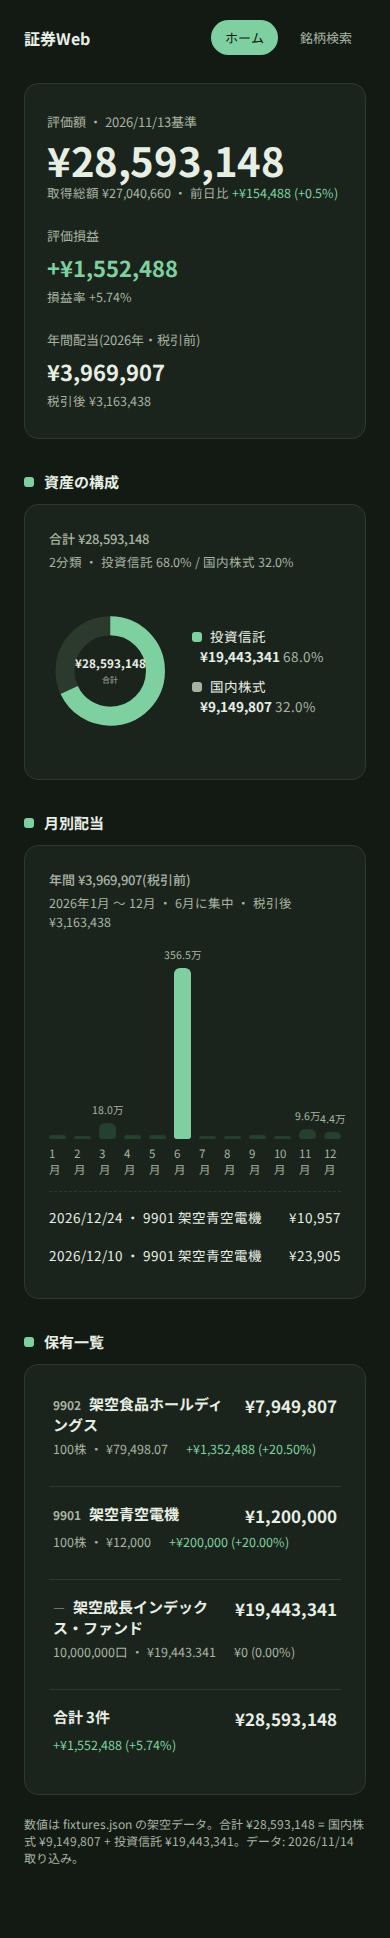
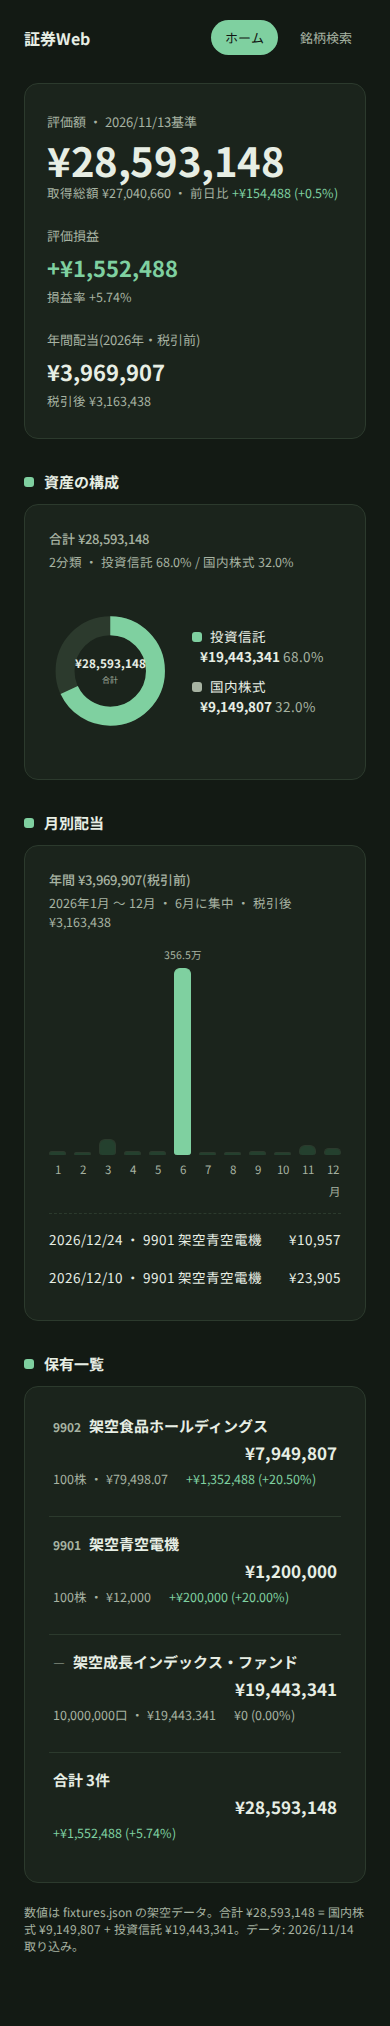
design: シンプル1案に絞って作り直し(ホーム案4)
Refs #1890

diff --git a/docs/design/work/phase8-visual/idea4-simple.html b/docs/design/work/phase8-visual/idea4-simple.html
@@ -1,0 +1,147 @@
+<!doctype html>
+<!-- 現行ホーム(before/current-home-*.png)からの変更3点:
+  1. 紺の3分割集計帯・予想vs実績グラフ・口座別バーをなくし、縦1列(最大720px)で読む形にした
+  2. 明細をすべて「左=名前(省略)・右=金額」の同じ行に統一し、金額の右端を一本線にそろえた
+  3. 色を黒・灰+利益緑・損失赤・グラフ1色(緑の濃淡)だけにし、見出しや帯の色をやめた -->
+<html lang="ja" data-theme="light">
+<head>
+<meta charset="utf-8">
+<meta name="viewport" content="width=device-width,initial-scale=1">
+<title>ホーム 案4 シンプル | 証券Web</title>
+<link rel="preconnect" href="https://fonts.googleapis.com">
+<link rel="preconnect" href="https://fonts.gstatic.com" crossorigin>
+<link href="https://fonts.googleapis.com/css2?family=Noto+Sans+JP:wght@400;700&display=swap" rel="stylesheet">
+<style>
+/* 規則1: 縦1列・最大720px中央。左右併記は「名前と金額」の行の中だけ */
+:root{
+  --bg:#ffffff; --ink:#111111; --mut:#6e7378; --line:#e2e2e2;
+  --up:#0f6b3c; --down:#b3261e;
+  --g-deep:#1f6b44; --g-pale:#bcd8c4; /* 規則5: グラフは同色相の濃淡 */
+}
+html[data-theme="dark"]{
+  --bg:#101112; --ink:#f2f2f2; --mut:#a3a7ab; --line:#2b2d2f;
+  --up:#5fce8f; --down:#f08780;
+  --g-deep:#7fd0a0; --g-pale:#2c4433;
+}
+@media (prefers-color-scheme: dark){
+  html:not([data-theme]){ --bg:#101112; --ink:#f2f2f2; --mut:#a3a7ab; --line:#2b2d2f; --up:#5fce8f; --down:#f08780; --g-deep:#7fd0a0; --g-pale:#2c4433; }
+}
+*{box-sizing:border-box}
+body{
+  margin:0; background:var(--bg); color:var(--ink);
+  font-family:"Noto Sans JP","Hiragino Kaku Gothic ProN",Meiryo,sans-serif;
+  font-weight:400;
+}
+.wrap{max-width:720px; margin:0 auto; padding:0 20px 80px}
+.top{display:flex; justify-content:space-between; align-items:center; padding:20px 0; font-size:14px}
+.top .brand{font-weight:700}
+.top .nav{color:var(--mut); white-space:nowrap}
+/* 主役の評価額: 数字3段の1段目 */
+.hero{padding:44px 0 8px}
+.hero .kicker{font-size:13px; color:var(--mut); margin:0 0 8px; white-space:nowrap}
+.hero .total{font-size:clamp(36px,10vw,52px); font-weight:700; text-align:right; margin:0; white-space:nowrap;
+  font-feature-settings:"tnum" 1; font-variant-numeric:tabular-nums}
+/* 規則2: 見出し→要約→明細。区切りは余白+細線のみ */
+section{padding:36px 0 8px; border-top:1px solid var(--line); margin-top:36px}
+section h2{font-size:13px; font-weight:700; margin:0; white-space:nowrap}
+.sum{display:flex; justify-content:space-between; align-items:baseline; gap:16px; margin:10px 0 0}
+.sum .label{font-size:13px; color:var(--mut); white-space:nowrap}
+.sum .amt{font-size:22px; font-weight:700; white-space:nowrap;
+  font-feature-settings:"tnum" 1; font-variant-numeric:tabular-nums}
+/* 規則3: 明細は同じ「行」の型。名前は省略、金額は右そろえ、補足は2段目 */
+.rows{margin-top:8px}
+.row{display:flex; justify-content:space-between; align-items:flex-start; gap:16px; padding:12px 0; border-top:1px solid var(--line)}
+.row .left{min-width:0; flex:1 1 auto}
+.row .name{font-size:15px; white-space:nowrap; overflow:hidden; text-overflow:ellipsis}
+.row .sub{display:block; font-size:12.5px; color:var(--mut); margin-top:2px; white-space:nowrap; overflow:hidden; text-overflow:ellipsis}
+.row .amt{flex:none; font-size:15px; font-weight:700; text-align:right; white-space:nowrap;
+  font-feature-settings:"tnum" 1; font-variant-numeric:tabular-nums}
+.up{color:var(--up)} .down{color:var(--down)}
+/* 規則6: 構成は1本の横棒(濃淡)、月別は小さな棒1つ・数字ラベル・値は最大月だけ */
+.bar100{display:flex; height:10px; margin:20px 0 4px}
+.bar100 .a{background:var(--g-deep); width:68.0%}
+.bar100 .b{background:var(--g-pale); width:32.0%}
+.bars{display:flex; align-items:flex-end; gap:6px; height:120px; margin-top:20px}
+.bars .c{flex:1; display:flex; flex-direction:column; align-items:center; justify-content:flex-end; gap:4px; min-width:0; height:100%}
+.bars .b{width:100%; max-width:26px; background:var(--g-deep); min-height:2px}
+.bars .t{font-size:10.5px; color:var(--mut); white-space:nowrap; font-feature-settings:"tnum" 1; font-variant-numeric:tabular-nums}
+.bars .m{font-size:11px; color:var(--mut)}
+.m-axis{text-align:right; font-size:11px; color:var(--mut); margin-top:4px}
+.foot{margin-top:36px; padding-top:16px; border-top:1px solid var(--line); color:var(--mut); font-size:12px}
+</style>
+</head>
+<body>
+<div class="wrap">
+  <header class="top"><span class="brand">証券Web</span><span class="nav">ホーム</span></header>
+
+  <div class="hero">
+    <p class="kicker">評価額 ・ 価格基準日 2026/11/13</p>
+    <p class="total">¥28,593,148</p>
+    <div class="rows">
+      <div class="row"><div class="left"><div class="name">評価損益</div><span class="sub">+5.74% ・ 取得総額 ¥27,040,660</span></div><span class="amt up">+¥1,552,488</span></div>
+      <div class="row"><div class="left"><div class="name">前日比</div><span class="sub">+0.5% ・ 前日 ¥28,438,660</span></div><span class="amt up">+¥154,488</span></div>
+      <div class="row"><div class="left"><div class="name">年間配当(2026年・税引前)</div><span class="sub">税引後 ¥3,163,438</span></div><span class="amt">¥3,969,907</span></div>
+    </div>
+  </div>
+
+  <section>
+    <h2>資産の構成</h2>
+    <div class="sum"><span class="label">合計</span><span class="amt">¥28,593,148</span></div>
+    <div class="bar100"><span class="a"></span><span class="b"></span></div>
+    <div class="rows">
+      <div class="row"><div class="left"><div class="name">投資信託</div><span class="sub">68.0% ・ 1件</span></div><span class="amt">¥19,443,341</span></div>
+      <div class="row"><div class="left"><div class="name">国内株式</div><span class="sub">32.0% ・ 2件</span></div><span class="amt">¥9,149,807</span></div>
+    </div>
+  </section>
+
+  <section>
+    <h2>月別配当</h2>
+    <div class="sum"><span class="label">年間合計(税引前)</span><span class="amt">¥3,969,907</span></div>
+    <div class="bars">
+      <div class="c"><span class="t"></span><span class="b" style="height:2px"></span><span class="m">1</span></div>
+      <div class="c"><span class="t"></span><span class="b" style="height:2px"></span><span class="m">2</span></div>
+      <div class="c"><span class="t"></span><span class="b" style="height:6px"></span><span class="m">3</span></div>
+      <div class="c"><span class="t"></span><span class="b" style="height:2px"></span><span class="m">4</span></div>
+      <div class="c"><span class="t"></span><span class="b" style="height:2px"></span><span class="m">5</span></div>
+      <div class="c"><span class="t">356.5万</span><span class="b" style="height:100px"></span><span class="m">6</span></div>
+      <div class="c"><span class="t"></span><span class="b" style="height:2px"></span><span class="m">7</span></div>
+      <div class="c"><span class="t"></span><span class="b" style="height:2px"></span><span class="m">8</span></div>
+      <div class="c"><span class="t"></span><span class="b" style="height:2px"></span><span class="m">9</span></div>
+      <div class="c"><span class="t"></span><span class="b" style="height:2px"></span><span class="m">10</span></div>
+      <div class="c"><span class="t"></span><span class="b" style="height:3px"></span><span class="m">11</span></div>
+      <div class="c"><span class="t"></span><span class="b" style="height:2px"></span><span class="m">12</span></div>
+    </div>
+    <div class="m-axis">月</div>
+    <div class="rows">
+      <div class="row"><div class="left"><div class="name">1月</div><span class="sub">税引後 ¥9,562</span></div><span class="amt">¥12,000</span></div>
+      <div class="row"><div class="left"><div class="name">2月</div><span class="sub">税引後 ¥6,375</span></div><span class="amt">¥8,000</span></div>
+      <div class="row"><div class="left"><div class="name">3月</div><span class="sub">税引後 ¥143,434</span></div><span class="amt">¥180,000</span></div>
+      <div class="row"><div class="left"><div class="name">4月</div><span class="sub">税引後 ¥8,765</span></div><span class="amt">¥11,000</span></div>
+      <div class="row"><div class="left"><div class="name">5月</div><span class="sub">税引後 ¥10,359</span></div><span class="amt">¥13,000</span></div>
+      <div class="row"><div class="left"><div class="name">6月</div><span class="sub">税引後 ¥2,840,712</span></div><span class="amt">¥3,564,907</span></div>
+      <div class="row"><div class="left"><div class="name">7月</div><span class="sub">税引後 ¥7,172</span></div><span class="amt">¥9,000</span></div>
+      <div class="row"><div class="left"><div class="name">8月</div><span class="sub">税引後 ¥5,578</span></div><span class="amt">¥7,000</span></div>
+      <div class="row"><div class="left"><div class="name">9月</div><span class="sub">税引後 ¥11,953</span></div><span class="amt">¥15,000</span></div>
+      <div class="row"><div class="left"><div class="name">10月</div><span class="sub">税引後 ¥7,969</span></div><span class="amt">¥10,000</span></div>
+      <div class="row"><div class="left"><div class="name">11月</div><span class="sub">税引後 ¥76,697</span></div><span class="amt">¥96,250</span></div>
+      <div class="row"><div class="left"><div class="name">12月</div><span class="sub">税引後 ¥34,862</span></div><span class="amt">¥43,750</span></div>
+    </div>
+  </section>
+
+  <section>
+    <h2>保有一覧</h2>
+    <div class="sum"><span class="label">合計(3件)</span><span class="amt">¥28,593,148</span></div>
+    <div class="rows">
+      <div class="row"><div class="left"><div class="name">9902 架空食品ホールディングス</div><span class="sub">100株 ・ +¥1,352,488 (+20.50%)</span></div><span class="amt">¥7,949,807</span></div>
+      <div class="row"><div class="left"><div class="name">9901 架空青空電機</div><span class="sub">100株 ・ +¥200,000 (+20.00%)</span></div><span class="amt">¥1,200,000</span></div>
+      <div class="row"><div class="left"><div class="name">— 架空成長インデックス・ファンド</div><span class="sub">10,000,000口 ・ ¥0 (0.00%)</span></div><span class="amt">¥19,443,341</span></div>
+    </div>
+  </section>
+
+  <div class="foot">数値は fixtures.json の架空データ。合計 ¥28,593,148 = 国内株式 ¥9,149,807 + 投資信託 ¥19,443,341。データ: 2026/11/14 取り込み。</div>
+</div>
+<script>
+try{const t=new URLSearchParams(location.search).get('theme');if(t)document.documentElement.dataset.theme=t;}catch(e){}
+</script>
+</body>
+</html>

diff --git a/docs/design/work/phase8-visual/idea3-cards.html b/docs/design/work/phase8-visual/idea3-cards.html
@@ -66,6 +66,17 @@ h2.sec::before{content:""; width:10px; height:10px; border-radius:3px; backgroun
 .bars .c.hl .b{background:var(--green); border-color:var(--green)}
 .bars .m{font-size:11.5px; color:var(--muted)}
 .bars .t{font-size:10.5px; color:var(--muted); white-space:nowrap}
+.m-axis{display:none}
+@media(max-width:720px){
+  /* 月ラベルは数字だけにし、軸の下に「月」を1回 */
+  .bars .m .u{display:none}
+  .bars .c:not(.hl) .t{display:none}
+  .m-axis{display:block; text-align:right; font-size:11.5px; color:var(--muted); margin-top:6px}
+  /* 保有一覧: 名前1行 + 金額行に分ける */
+  .hold .row{grid-template-columns:1fr; gap:2px}
+  .hold .name{grid-column:1/-1}
+  .hold .val{grid-column:1/-1; text-align:left; font-size:19px}
+}
 .recent{margin-top:14px; border-top:1px dashed var(--line); padding-top:6px}
 .recent .r{display:flex; justify-content:space-between; gap:12px; padding:9px 0; font-size:13.5px}
 /* 保有一覧カード */
@@ -121,19 +132,20 @@ h2.sec::before{content:""; width:10px; height:10px; border-radius:3px; backgroun
     <h3>年間 ¥3,969,907(税引前)</h3>
     <p class="cap">2026年1月 〜 12月 ・ 6月に集中 ・ 税引後 ¥3,163,438</p>
     <div class="bars">
-      <div class="c"><span class="t"></span><span class="b" style="height:4px"></span><span class="m">1月</span></div>
-      <div class="c"><span class="t"></span><span class="b" style="height:3px"></span><span class="m">2月</span></div>
-      <div class="c"><span class="t">18.0万</span><span class="b" style="height:16px"></span><span class="m">3月</span></div>
-      <div class="c"><span class="t"></span><span class="b" style="height:4px"></span><span class="m">4月</span></div>
-      <div class="c"><span class="t"></span><span class="b" style="height:4px"></span><span class="m">5月</span></div>
-      <div class="c hl"><span class="t">356.5万</span><span class="b" style="height:190px"></span><span class="m">6月</span></div>
-      <div class="c"><span class="t"></span><span class="b" style="height:3px"></span><span class="m">7月</span></div>
-      <div class="c"><span class="t"></span><span class="b" style="height:3px"></span><span class="m">8月</span></div>
-      <div class="c"><span class="t"></span><span class="b" style="height:4px"></span><span class="m">9月</span></div>
-      <div class="c"><span class="t"></span><span class="b" style="height:3px"></span><span class="m">10月</span></div>
-      <div class="c"><span class="t">9.6万</span><span class="b" style="height:10px"></span><span class="m">11月</span></div>
-      <div class="c"><span class="t">4.4万</span><span class="b" style="height:7px"></span><span class="m">12月</span></div>
+      <div class="c"><span class="t"></span><span class="b" style="height:4px"></span><span class="m">1<span class="u">月</span></span></div>
+      <div class="c"><span class="t"></span><span class="b" style="height:3px"></span><span class="m">2<span class="u">月</span></span></div>
+      <div class="c"><span class="t">18.0万</span><span class="b" style="height:16px"></span><span class="m">3<span class="u">月</span></span></div>
+      <div class="c"><span class="t"></span><span class="b" style="height:4px"></span><span class="m">4<span class="u">月</span></span></div>
+      <div class="c"><span class="t"></span><span class="b" style="height:4px"></span><span class="m">5<span class="u">月</span></span></div>
+      <div class="c hl"><span class="t">356.5万</span><span class="b" style="height:190px"></span><span class="m">6<span class="u">月</span></span></div>
+      <div class="c"><span class="t"></span><span class="b" style="height:3px"></span><span class="m">7<span class="u">月</span></span></div>
+      <div class="c"><span class="t"></span><span class="b" style="height:3px"></span><span class="m">8<span class="u">月</span></span></div>
+      <div class="c"><span class="t"></span><span class="b" style="height:4px"></span><span class="m">9<span class="u">月</span></span></div>
+      <div class="c"><span class="t"></span><span class="b" style="height:3px"></span><span class="m">10<span class="u">月</span></span></div>
+      <div class="c"><span class="t">9.6万</span><span class="b" style="height:10px"></span><span class="m">11<span class="u">月</span></span></div>
+      <div class="c"><span class="t">4.4万</span><span class="b" style="height:7px"></span><span class="m">12<span class="u">月</span></span></div>
     </div>
+    <div class="m-axis">月</div>
     <div class="recent">
       <div class="r"><span>2026/12/24 ・ 9901 架空青空電機</span><span>¥10,957</span></div>
       <div class="r"><span>2026/12/10 ・ 9901 架空青空電機</span><span>¥23,905</span></div>

diff --git a/docs/design/work/phase8-visual/idea1-minimal.html b/docs/design/work/phase8-visual/idea1-minimal.html
@@ -83,7 +83,19 @@ table.hold td .code{color:var(--muted); font-size:12.5px; margin-right:10px}
   .hero{padding:48px 0 40px}
   .hero .total{font-size:42px}
   section.block{padding:40px 0}
-  table.hold th:nth-child(2), table.hold td:nth-child(2){display:none}
+  /* 保有一覧: 表をやめて銘柄ごとの2段(コード+名前 / 評価額・損益・損益率) */
+  table.hold thead{display:none}
+  table.hold, table.hold tbody, table.hold tr, table.hold td{display:block}
+  table.hold tr{display:grid; grid-template-columns:1fr auto auto; gap:2px 14px; padding:14px 0; border-top:1px solid var(--line)}
+  table.hold tbody tr:first-child{border-top:1px solid var(--line)}
+  table.hold td{padding:2px 0; border:none}
+  table.hold td:nth-child(2){display:none}
+  table.hold td:first-child{grid-column:1/-1; font-size:15px}
+  table.hold td:nth-child(3){font-weight:700; text-align:left}
+  .recent .acc::before{content:" ・ "}
+  .recent .r{flex-wrap:wrap}
+  .recent .acc{display:block; flex-basis:100%; font-size:12.5px; color:var(--muted)}
+  .recent .acc::before{content:none}
 }
 </style>
 </head>
@@ -136,8 +148,8 @@ table.hold td .code{color:var(--muted); font-size:12.5px; margin-right:10px}
       <div class="m-col"><span class="v">4.4万</span><span class="b" style="height:4px"></span><span class="m">12月</span></div>
     </div>
     <div class="recent">
-      <div class="r"><span>2026/12/24 ・ 9901 架空青空電機 ・ 特定口座</span><span>¥10,957</span></div>
-      <div class="r"><span>2026/12/10 ・ 9901 架空青空電機 ・ 特定口座</span><span>¥23,905</span></div>
+      <div class="r"><span>2026/12/24 ・ 9901 架空青空電機<span class="acc">特定口座</span></span><span>¥10,957</span></div>
+      <div class="r"><span>2026/12/10 ・ 9901 架空青空電機<span class="acc">特定口座</span></span><span>¥23,905</span></div>
     </div>
   </section>
 

diff --git a/docs/design/work/phase8-visual/tools/shoot.py b/docs/design/work/phase8-visual/tools/shoot.py
@@ -8,7 +8,7 @@ VISUAL = HERE.parent
 SHOTS = VISUAL / "shots"
 SHOTS.mkdir(exist_ok=True)
 
-IDEAS = ["idea1-minimal", "idea2-finance", "idea3-cards"]
+IDEAS = ["idea1-minimal", "idea2-finance", "idea3-cards", "idea4-simple"]
 VIEWPORTS = {"pc": (1440, 900), "mobile": (390, 844)}
 
 with sync_playwright() as p:

diff --git a/docs/design/work/phase8-visual/README.md b/docs/design/work/phase8-visual/README.md
@@ -1,6 +1,26 @@
-# Phase 8 ホーム見た目 3案(visual)
+# Phase 8 ホーム見た目(visual)
 
-Phase 5 の見本に対し「全体の雰囲気・見た目が悪い」との判断を受け、Phase 3 の骨格(集計帯→資産の構成→月別配当→保有一覧)は保ったまま、見た目だけを作り直したホーム1枚の方向案3つ。数値はすべて `../phase5-codex/data/fixtures.json` の架空データを直書き(評価額 ¥28,593,148 = 国内株式 ¥9,149,807 + 投資信託 ¥19,443,341、前日比 +¥154,488、年間配当 税引前 ¥3,969,907 / 税引後 ¥3,163,438、保有3件、最近の配当 2026/12/24 ¥10,957・2026/12/10 ¥23,905)。
+Phase 5 の見本に対し「全体の雰囲気・見た目が悪い」との判断を受け、Phase 3 の骨格(集計帯→資産の構成→月別配当→保有一覧)は保ったまま、見た目だけを作り直したホームの方向案。数値はすべて `../phase5-codex/data/fixtures.json` の架空データを直書き(評価額 ¥28,593,148 = 国内株式 ¥9,149,807 + 投資信託 ¥19,443,341、前日比 +¥154,488、年間配当 税引前 ¥3,969,907 / 税引後 ¥3,163,438、保有3件、最近の配当 2026/12/24 ¥10,957・2026/12/10 ¥23,905)。
+
+## 現行の画面から変わった点(案4)
+
+現行(`before/current-home-*.png`)との比べどころ:
+
+1. 紺の3分割集計帯・予想vs実績グラフ・口座別バーをなくし、縦1列(最大720px)で上から下に読む形にした
+2. 明細をすべて「左=名前(長いものは…で省略)・右=金額」の同じ行に統一し、金額の右端をページ全体で一本線にそろえた
+3. 色を黒・灰+利益緑・損失赤・グラフ1色(緑の濃淡)だけにし、見出しや帯の色をやめた
+
+## 守る規則と守った場所(案4 `idea4-simple.html`)
+
+1. 縦1列で読む: `.wrap{max-width:720px}` で中央1列。左右併記は `.row` の「名前と金額」の中だけ
+2. 同じ型のセクション: `section` = `h2`(見出し)→`.sum`(1行の要約)→`.rows`(明細)。カード・枠・影なし、区切りは `section{border-top}` の細線1本+余白
+3. 同じ「行」の型: `.row` = 左 `.name`(1行・`ellipsis`)+`.sub`(2段目・補足)、右 `.amt`。構成・月別(12か月)・保有の全明細で同じ型
+4. 数字: `.amt` と `.total` は `tabular-nums`・右そろえ・書式 `¥1,234,567`。大きさ3段(hero 52px / `.sum` 22px / `.row` 15px)で同段は同サイズ・同太字
+5. 色: 文字は `--ink` と `--muted`(灰)の2つだけ。色は `.up`(緑)/`.down`(赤)とグラフの `--g-deep`/`--g-pale`(同色相の濃淡)だけ。見出し・帯に色なし
+6. グラフ: 構成は `.bar100`(68.0%/32.0%の1本) 、月別は `.bars`(数字ラベル+下に「月」1回、値ラベルは6月の356.5万だけ)
+7. 書体: Noto Sans JP の1種類、太さは `400` と `700` のみ(Google Fonts 指定もその2つ)
+8. スマホ390px: 金額・見出しは `nowrap`/`ellipsis`+`clamp` で改行なし。`shots/idea4-simple-mobile-{light,dark}.png` で全金額1行を目視済み(機械検査でも折返し0・はみ出し0)
+9. 数字: fixtures.json の値(合計・月別税引前/税引後・保有3行・前日比)を直書き
 
 共通: Noto Sans JP(Google Fonts、落ちたらシステムフォント)、数字は tabular-nums。紫〜青グラデ・クリーム+セリフ・全面角丸+影・絵文字見出しは使わない。各 html は1ファイルで PC/スマホ両対応、`?theme=light|dark` と `prefers-color-scheme` でライト/ダーク切替。撮影は `tools/shoot.py`(Playwright、PC 1440px・スマホ 390px × ライト・ダークの full-page)。
 
@@ -28,9 +48,17 @@ Phase 5 の見本に対し「全体の雰囲気・見た目が悪い」との判
 現行からの変更: (1)紺の帯をやめ淡い緑地+白カードにし評価額・損益・配当を分けて置いた (2)ドーナツと月別棒を大きくし予想・達成率や口座別バーをなくした (3)保有一覧を銘柄ごとの行にし評価額を右に大きく出した。
 色: 地 #E9EFE9 / カード #FFFFFF / 文字 #22301F / 主緑 #1F6B44 / 淡緑 #E0ECDF、月別ピークのみ濃緑。書体: Noto Sans JP 400/500/700。
 
+## 案4 シンプル(`idea4-simple.html`)
+
+3案への指摘(すらすら読めない・数字と色がガタガタ)を受け、1案に絞った作り直し。上記8規則のとおり: 縦1列・全セクション同型・全明細同行型・金額右端一本線・黒灰+緑赤+緑濃淡のみ・Noto Sans JP 400/700。
+現行からの変更は冒頭「現行の画面から変わった点」3点のとおり。各 html 冒頭のコメントにも同じ3点を記載。
+
 ## ファイル
 
+- `idea4-simple.html` — 本命の1案(PC/スマホ両対応1ファイル)
+- `idea1-minimal.html` / `idea2-finance.html` / `idea3-cards.html` — 旧3案(残置)
+
 - `idea1-minimal.html` / `idea2-finance.html` / `idea3-cards.html`
-- `shots/`: 各案4枚(PC/モバイル × ライト/ダーク)計12枚。全枚、文字の切れ・重なり・はみ出しなしを目視済み
+- `shots/`: 各案4枚(PC/モバイル × ライト/ダーク)。案4は16枚中の4枚。全枚、文字の切れ・重なり・はみ出しなしを目視済み(モバイルは全金額1行を1枚ずつ確認)
 - `before/`: 現行ホームの撮影4枚(phase1-opencode の現行アプリ撮影を複写。比較用、編集なし)
 - `tools/shoot.py`: 撮影スクリプト
